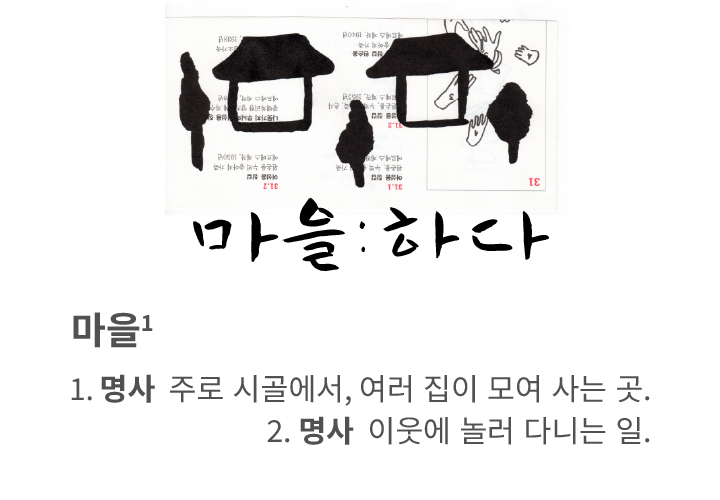
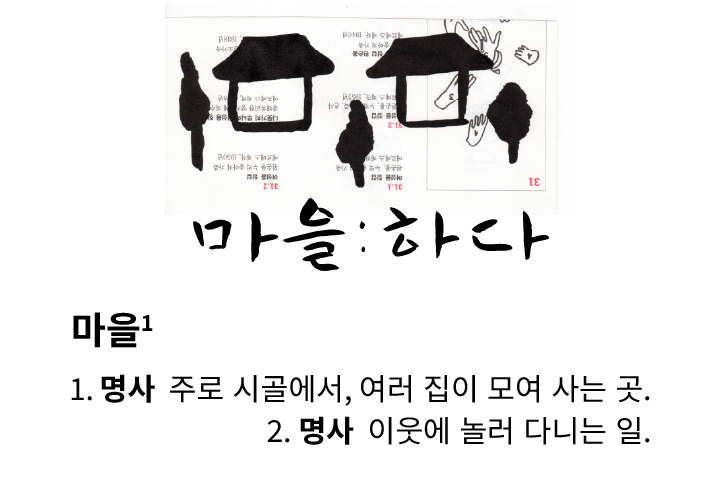
260619 test

diff --git a/featured_pages/0.html b/featured_pages/0.html
@@ -8,14 +8,14 @@
 	<link rel="preconnect" href="https://fonts.googleapis.com">
     <link rel="preconnect" href="https://fonts.gstatic.com" crossorigin>
     <link href="https://fonts.googleapis.com/css2?family=Noto+Sans+KR:wght@100..900&display=swap" rel="stylesheet">
-	<script src="js/jquery-3.2.1.min.js"></script>
+	<script src="../js/jquery-3.2.1.min.js"></script>
 	<link href="../srcs/style.css" rel="stylesheet">
 	<link href="../srcs/slider2.css" rel="stylesheet">
 	<link href="../srcs/grid.css" rel="stylesheet">
 	<link href="../srcs/footer.css" rel="stylesheet">
 	<link href="../slick/slick.css" rel="stylesheet" type="text/css">
 	<link href="../slick/slick-theme.css" rel="stylesheet" type="text/css">
-	<!--<script src="./js/calendarTest.js"></script>-->
+	<!--<script src="../js/calendarTest.js"></script>-->
 	<script src="../js/index.js"></script>
    
 </head>
@@ -30,7 +30,7 @@
 				<span></span>
 				<span></span>
 				<ul id="menu">
-					<!-- <div class="go-to-main"><a href="index.html">HOME <img src="./img/home.png" width="17px" /></a>
+					<!-- <div class="go-to-main"><a href="index.html">HOME <img src="../img/home.png" width="17px" /></a>
 					</div> -->
 					
 					<ul class="click">
@@ -56,30 +56,42 @@
 					</ul>
 				</ul>
 			</div>
-			<div class="main-logo"><a href="../index.html"><img src="../img/logo.png" height="43" width="150"></a>
-				</div>
-			
-		</header>
-		
-	
-	<!-------------------------------------------------------------------------->
+			<div class="main-logo"><a href="../index.html"><img src="../img/logo.png" height="25" width="122"></a>
+			</div>
+        </header>
 	<div id="the-gap">
 	</div>
-    <p> 준비중
-    <p>   
+	
+	<h1 style="text-align:center">이진경 X 연봉리 : 마을하다 3 
+		<p>"바다를 생각해"</p></h1>   
+    <p>날짜 : 2026년 5월 20일 ~ 8월 16일  
+	<p>장소 : 연봉리 로스터리 카페(강원 홍천군 홍천읍 남산마을길3길 25) </p>
+	<p>작가와의 만남&연봉리 정원 음악회 5.30.(토)</p> 
+	<div id="main-image">
+			<div style="text-align:center;">
+					<img src="../img/exhibition3.jpg" width="70%"/>
+			</div>
     <p>     
     <p>
-</div>
+
+
+
+
+
+
+        
+    </p>
+    </div>
     <footer>
 		<div class="copyrights">
 			<h3>
-				<p>©2026 연봉리(리메이커) X 이진경 ALL RIGHTS RESERVED.</p>
+				<p>©2026 마을하다 ALL RIGHTS RESERVED.</p>
 			</h3>
 		</div>
 	</footer>
 </body>
 <script src="../js/featuredLectures.js"></script>
 <script src="../slick/slick.js" type="text/javascript" charset="utf-8"></script>
-<!-- <script src="./js/pageMenu.js" type="text/javascript" charset="utf-8"></script> -->
+<!-- <script src="../js/pageMenu.js" type="text/javascript" charset="utf-8"></script> -->
 
 </html>

diff --git a/srcs/style.css b/srcs/style.css
@@ -19,12 +19,12 @@
  */
 
 h1{font-size: 20px;}
-h2, h3, h4{color:rgb(81, 81, 81);}
+h2, h3, h4{color:rgb(0, 0, 0);}
 
 html,body { 
     margin: 0px;
     padding: 0px;
-    color: rgb(81, 81, 81);
+    color: rgb(0, 0, 0);
     background-color: #ffffff;
     width:100%;
     overflow-x:hidden;
@@ -44,7 +44,7 @@ header{
     width:100%; 
     text-align:center; 
     justify-content: space-between;
-    background-color: rgb(81, 81, 81);
+    background-color: rgb(0, 0, 0);
     z-index:3;
     display: flex;
     align-items: center;
@@ -64,7 +64,7 @@ header{
 
 }
 main {
-    font-size:15px;  color: rgb(81, 81, 81);
+    font-size:15px;  color: rgb(0, 0, 0);
     text-decoration-line: none;
     margin-top:70px;
     margin-left:0px;
@@ -318,7 +318,7 @@ li:hover {cursor:pointer;}
 #menuToggle input:checked ~ span {
   opacity: 1;
   transform: rotate(45deg) translate(-2px, -1px);
-  background:rgb(81, 81, 81);
+  background:rgb(0, 0, 0);
 }
 #menuToggle input:checked ~ span:nth-last-child(3){
   opacity: 0;
@@ -337,8 +337,8 @@ li:hover {cursor:pointer;}
   /* padding-bottom:32px; */
   margin: -50px 0 0 -30px;
   /* padding: 50px; */
-  padding-top: 68px;
-  color:rgb(81, 81, 81);
+  padding-top: 61px;
+  color:rgb(0, 0, 0);
   background-color : #ffffff;
   /* background: rgb(240, 240, 240); */
   list-style-type: none;
@@ -358,7 +358,7 @@ li:hover {cursor:pointer;}
 .go-to-main a {color:#b9d7ff;}
 #menu li {
     font-family:"Nanum Gothic";
-    background-color:rgb(81, 81, 81);
+    background-color:rgb(0, 0, 0);
     color: #ffffff;
     padding: 0px 0;
     padding-left:0px;
@@ -377,7 +377,7 @@ li:hover {cursor:pointer;}
     padding-left:0px;
 }
 #menu ul.sub li { 
-    border-bottom:1px solid rgb(81, 81, 81);;
+    border-bottom:1px solid rgb(0, 0, 0);;
     background-color: #ffffff;
 }
 #menu ul.sub li a {color: #ffffff;}
@@ -420,14 +420,14 @@ blockquote {
    margin-bottom:55px;
     /* font-size: 1.1rem; */
     /* line-height: 1.4em; */
-    color: rgb(81, 81, 81);
+    color: rgb(0, 0, 0);
     /* text-decoration:underline; */
 }
 blockquote:before,blockquote:after {
     z-index:0;
     position: relative;
     line-height:0.5em; 
-    color: rgb(81, 81, 81);
+    color: rgb(0, 0, 0);
        font-family: 'Noto Sans KR', 'Special Elite';
    position:absolute;
 	font-size: 8rem;
@@ -577,7 +577,7 @@ blockquote:before,blockquote:after {
 }
 @media screen and (max-width: 1278px) {
     #main-image {
-        width:auto;
+        width:800px;
     }
     /* .right-nav, .page-right-nav { display:none;} */
     nav { 

diff --git a/pages/members.html b/pages/members.html
@@ -61,7 +61,8 @@
         </header>
 	<div id="the-gap">
 	</div>
-    <div id="main-image">  
+	<p>준비중</p>
+    <!-- <div id="main-image">  
 		<div style="text-align:left; margin:30px 20px 100px 20px;line-height:1.5;">
 		<h2 style="text-align:center">홍천군 내촌면</h2>   
 	    <h1>이진경</h1> 
@@ -85,7 +86,7 @@
 		<p>크렘베어라는 곰 캐릭터를 그리는 캐릭터 디자이너의 본체. 강원도 무형유산인 유평삼베길쌈을 2년째 전수받는 중이다. 시골을 좋아하는 전통시장 마니아. </p>
 		<hr style="border:none; height:1px; background-color:rgb(100,60,0); margin:40px 0;">
 	</div>
-    </div>
+    </div> -->
     <footer>
 		<div class="copyrights">
 			<h3>

diff --git a/pages/exhibition.html b/pages/exhibition.html
@@ -61,6 +61,12 @@
         </header>
 	<div id="the-gap">
 	</div>
+	<p>준비중</p>
+	<p>&nbsp;</p>
+	<!-- <p>연봉리 카페에서는 이진경 작가님의 작품을 2026년 내내 전시합니다.</p>
+	<p>&nbsp;</p>
+	<p>장소 : 연봉리 로스터리 카페(강원 홍천군 홍천읍 남산마을길3길 25) </p>
+	<p>일시 : 2026년 연중 내내 전시</p>
 	<p>&nbsp;</p>
 	<h1 style="text-align:center">이진경 X 연봉리 : 마을하다 1 
 		<p>"눈 오는 소리"</p></h1>   
@@ -71,16 +77,9 @@
 					<img src="../img/posterforweb.jpg" width="70%"/>
 			</div>
     <p>     
-    <p>
-
-
-
-
-
-
-        
+    <p> 
     </p>
-    </div>
+    </div> -->
     <footer>
 		<div class="copyrights">
 			<h3>

diff --git a/pages/about.html b/pages/about.html
@@ -63,12 +63,14 @@
 	</div>
 	<div id="main-image">
 			<div style="text-align:center;">
-					<img src="../img/maeul.png" width="50%"/>
+					<img src="../img/namecard.jpg" width="300px"/>
 			</div>
 	</div>
-	
-	<p>*출처 : 네이버 국어사전
-	<p>함께 마을하고 싶은 사람들을 환영합니다.
+		<p>&nbsp;</p>
+
+	<p>준비중</p>
+	<!-- <p>*출처 : 네이버 국어사전
+	<p>함께 마을하고 싶은 사람들을 환영합니다. -->
 		<p>yeonbongri.official@gmail.com</p>
 	<!-- <div style="margin:30px 20px 100px 20px; font-size:16px; line-height:1.8;">
 		<p>마을하다는 마을과 관련된 다양한 활동과 경험을 공유하고 소통하는 행위를 의미합니다.

diff --git a/srcs/grid.css b/srcs/grid.css
@@ -29,12 +29,12 @@
 }
 .grid-container a {
   text-decoration:none;
-  color: #a3bce1;
+  color: #ffffff;
 }
 .text { 
   font-family: 'Nanum Gothic';
   text-align:center; 
-  color: #a3bce1;
+  color: #ffffff;
   font-size:15px;
   font-weight:bold;
   padding-bottom:10px;
@@ -99,7 +99,7 @@
 }
 .wrap-sub-text{align-self: start;white-space: nowrap;}
 .card {
-  background-color: rgb(106, 60, 0);;
+  background-color: rgb(0, 0, 0);;
   /* box-shadow: 0 4px 6px 0 rgba(47, 47, 47, 0.2); */
   /* border:1px solid rgb(86,255,255); */
   /* border-bottom: 3px solid rgb(86, 255, 230); */

diff --git a/featured_pages/2.html b/featured_pages/2.html
@@ -56,7 +56,7 @@
 					</ul>
 				</ul>
 			</div>
-			<div class="main-logo"><a href="../index.html"><img src="../img/logo.png" height="43" width="150"></a>
+			<div class="main-logo"><a href="../index.html"><img src="../img/logo.png" height="25" width="122"></a>
 				</div>
 			
 		</header>
@@ -75,7 +75,7 @@
     <footer>
 		<div class="copyrights">
 			<h3>
-				<p>©2026 연봉리(리메이커) X 이진경 ALL RIGHTS RESERVED.</p>
+				<p>©2026 마을하다 ALL RIGHTS RESERVED.</p>
 			</h3>
 		</div>
 	</footer>

diff --git a/js/featuredLectures.js b/js/featuredLectures.js
@@ -3,13 +3,13 @@ var cardGrid = document.getElementById('class-grid');
 var classArr = [
   {
     "id": "0",
-    "title": "눈 오는 소리",
-    "thumbnail": "./img/winter.png"
+    "title": "전시 - 바다를 생각해",
+    "thumbnail": "./img/exhibition3.png"
   },
   {
     "id": "1",
-    "title": "입춘첩 리소그래피",
-    "thumbnail": "./img/ipchun.png"
+    "title": "디딤돌 문화예술학교",
+    "thumbnail": "./img/originOfArt.png"
   },
   {
     "id": "2",

diff --git a/srcs/footer.css b/srcs/footer.css
@@ -27,7 +27,7 @@ footer a:visited, footer a:link { color:white; text-decoration:none;}
     text-align: center;
     font-size:11px;
 }
-.copyrights h3 {color: rgb(81,81,81);}
+.copyrights h3 {color: rgb(0,0,0);}
 footer ul { float: left; margin: 0px 0px 0px 0px; padding-left:0px;
 margin-bottom:20px;}
 footer li { position:relative; display: inline-block; margin-top:0px;padding:0px 10px 0 10px;}

diff --git a/featured_pages/1.html b/featured_pages/1.html
@@ -56,7 +56,7 @@
 					</ul>
 				</ul>
 			</div>
-			<div class="main-logo"><a href="../index.html"><img src="../img/logo.png" height="43" width="150"></a>
+			<div class="main-logo"><a href="../index.html"><img src="../img/logo.png" height="25" width="122"></a>
 				</div>
 			
 		</header>
